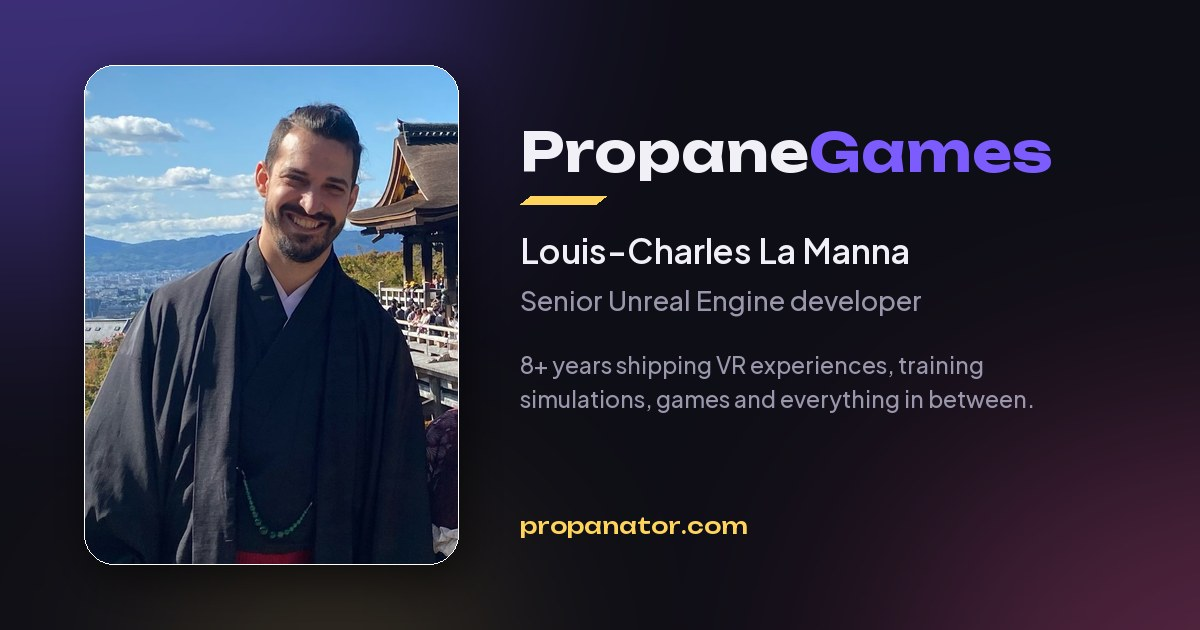
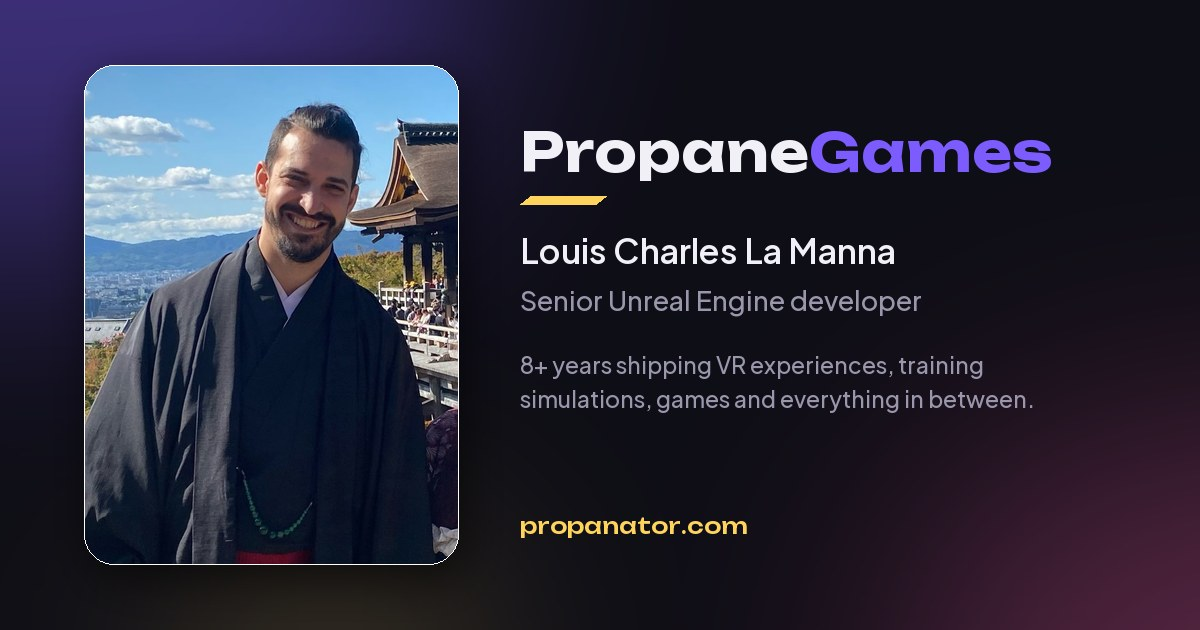
Fix name spelling and share description
Louis Charles La Manna, no hyphen, everywhere it appears (site data, alt
text, projects description, social card). Default description now says
VR, simulation, and games instead of AI-assisted content pipelines.

Changed region(s): [[0.4933, 0.3619, 0.7708, 0.4222]]

diff --git a/src/data/site.ts b/src/data/site.ts
@@ -1,6 +1,6 @@
 export const site = {
   name: "Propane Games",
-  owner: "Louis-Charles La Manna",
+  owner: "Louis Charles La Manna",
   email: "louischarles.lamanna@icloud.com",
   upwork: "https://www.upwork.com/freelancers/~01d363ad82ef101190",
   linkedin: "https://www.linkedin.com/in/louis-charles-la-manna-harvey-244191164/",
